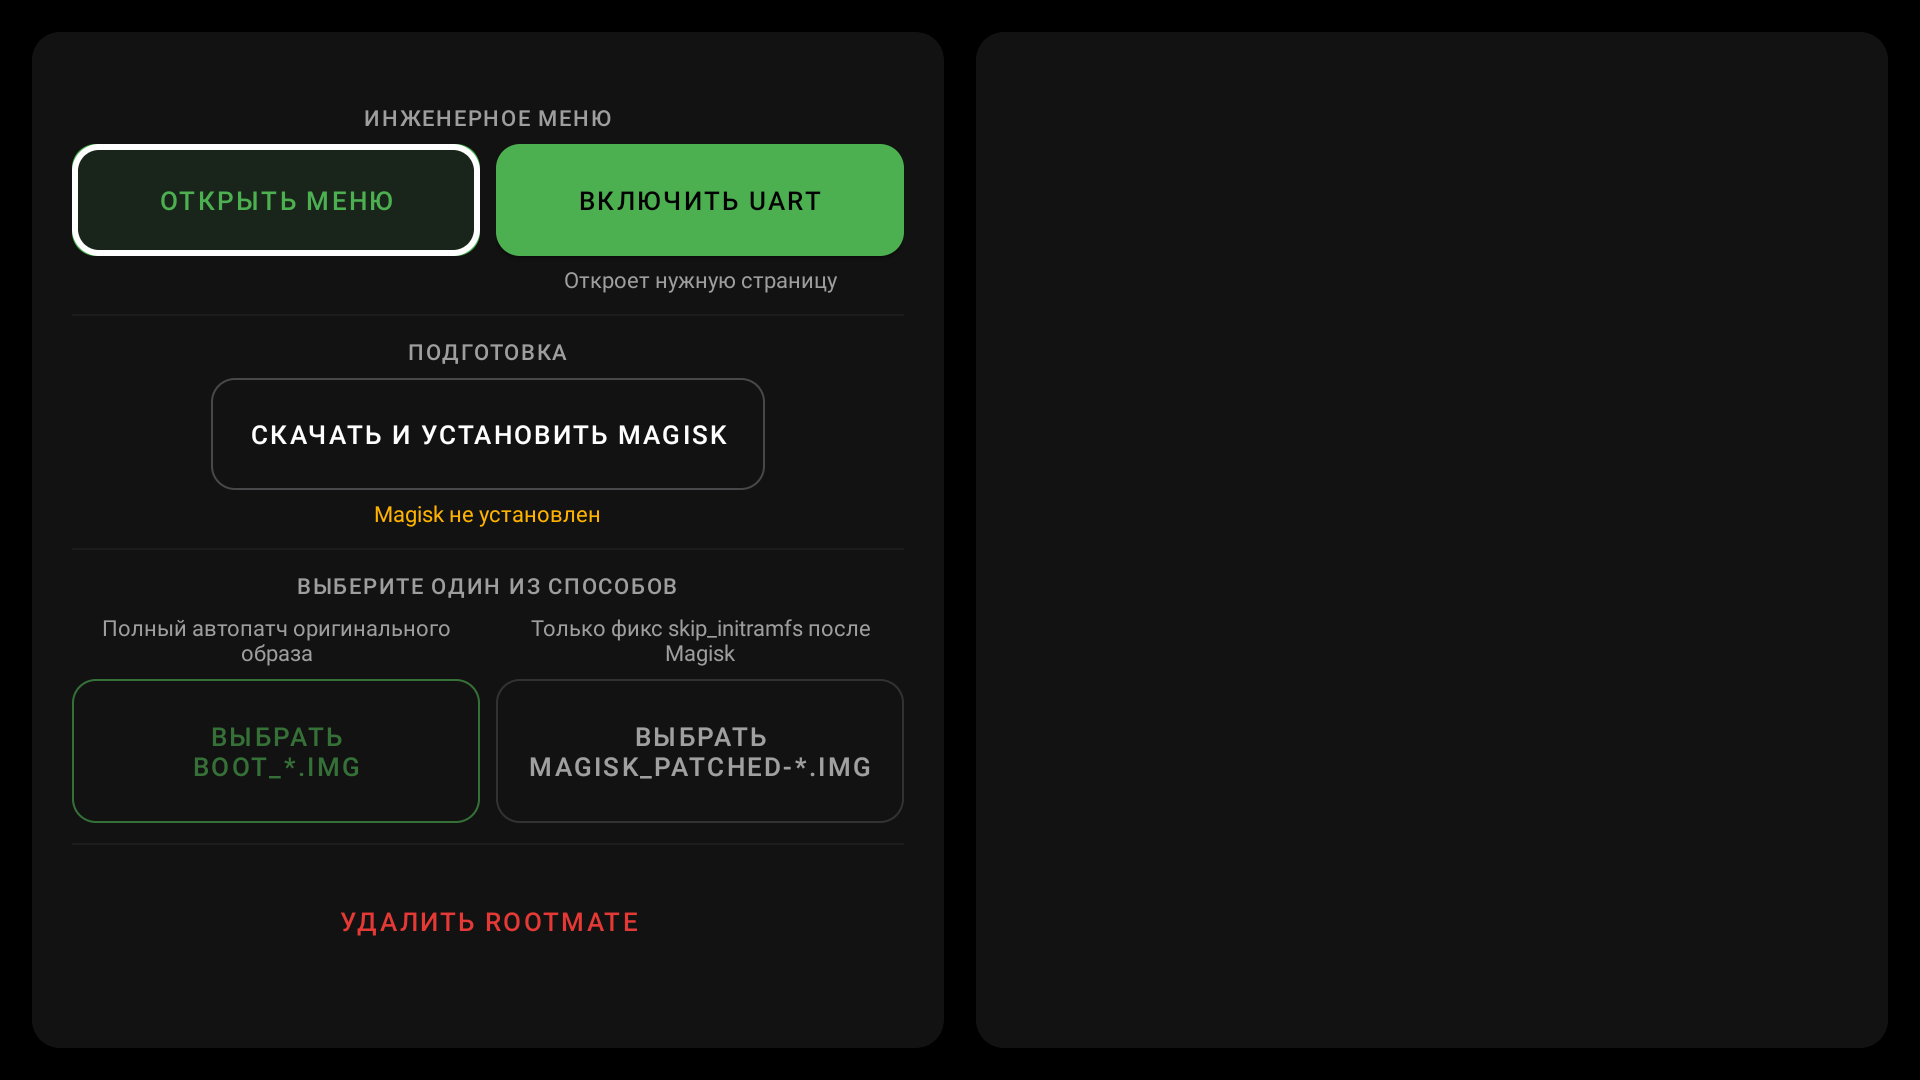
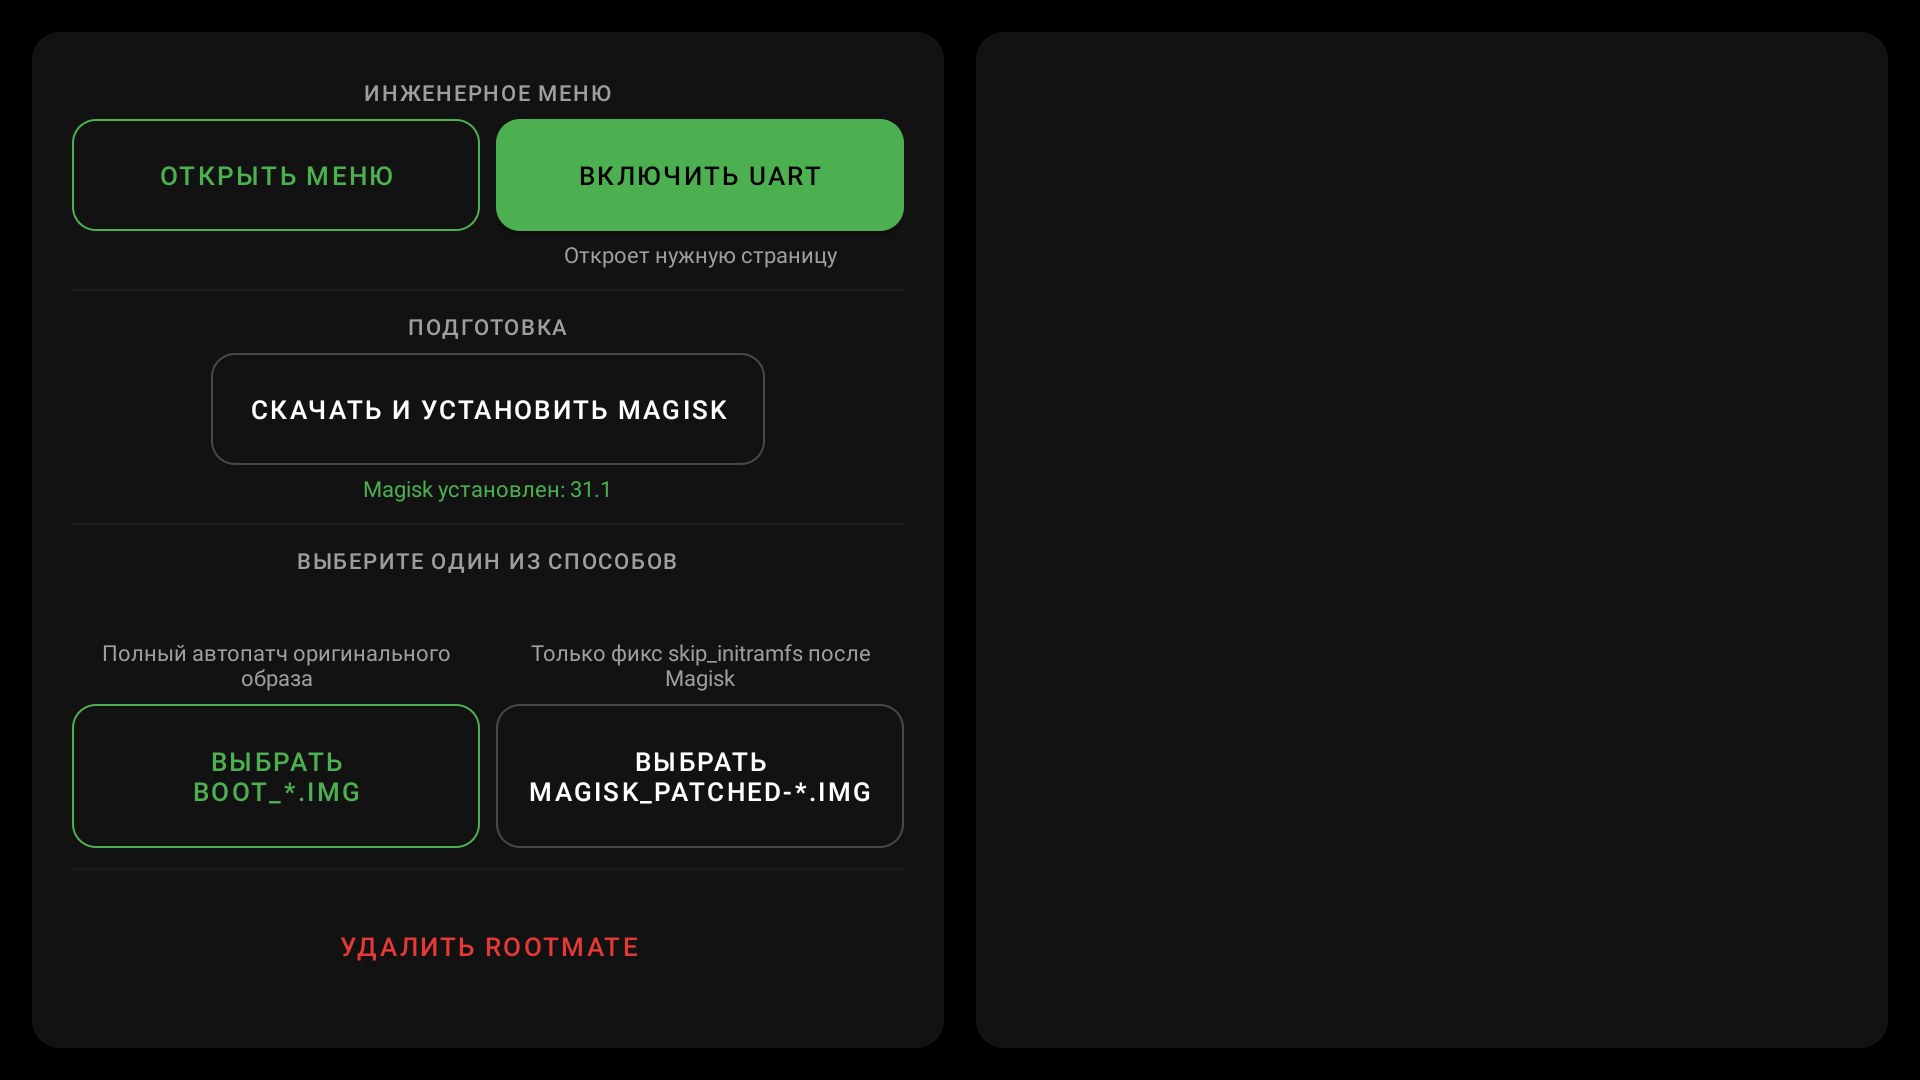
Wire up active slot status and mismatch warning

diff --git a/app/src/main/java/com/tobirg/rootmate/MainActivity.kt b/app/src/main/java/com/tobirg/rootmate/MainActivity.kt
@@ -113,10 +113,12 @@ class MainActivity : AppCompatActivity() {
         when (pendingPickTarget) {
             "manual" -> {
                 appendLog(getString(R.string.picked_file, path))
+                warnIfSlotMismatch(path)
                 runBusy { patch(File(path)) }
             }
             "full" -> {
                 appendLog(getString(R.string.picked_original, path))
+                warnIfSlotMismatch(path)
                 runBusy { fullPatch(path) }
             }
         }
@@ -196,6 +198,7 @@ class MainActivity : AppCompatActivity() {
         super.onResume()
         defaultFocusView.post { defaultFocusView.requestFocus() }
         updateGatedButtons()
+        updateSlotStatus()
         if (!permissionsIntroShown && (!hasStoragePermission() || !hasInstallPermission())) {
             permissionsIntroShown = true
             openPermissionsScreen()
